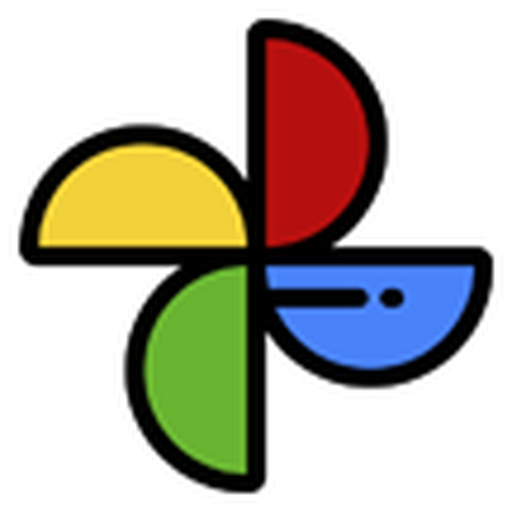
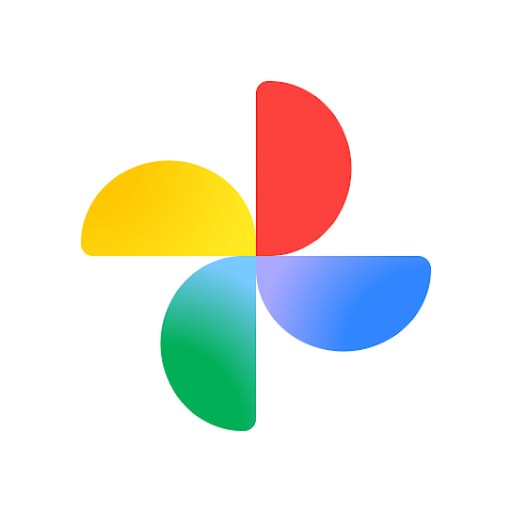
🔍 替换 Google 全家桶 6 个图标（Maps/Photos/Translate/Voice/YouTube/YouTubeMusic），清理 GoogleVoice01，同步计数（362/247）

diff --git a/README.md b/README.md
@@ -17,7 +17,7 @@
   <img src="https://img.shields.io/github/stars/Hawaiine/Oasisic-Icons?style=flat-square" alt="Stars">
   <img src="https://img.shields.io/github/last-commit/Hawaiine/Oasisic-Icons?style=flat-square" alt="Last Commit">
   <img src="https://img.shields.io/github/repo-size/Hawaiine/Oasisic-Icons?style=flat-square" alt="Repo Size">
-  <img src="https://img.shields.io/badge/icons-363-blue?style=flat-square" alt="Icons Count">
+  <img src="https://img.shields.io/badge/icons-362-blue?style=flat-square" alt="Icons Count">
   <img src="https://img.shields.io/badge/brands-247-green?style=flat-square" alt="Brands Count">
   <img src="https://img.shields.io/badge/categories-21-orange?style=flat-square" alt="Categories Count">
 </p>
@@ -26,12 +26,12 @@
 
 ## 📖 简介 / Introduction
 
-**Oasisic-Icons** 是一套专为代理工具设计的策略组图标合集：当前共 **363** 个 PNG 图标，覆盖 **247** 个品牌，归入 **21** 个分类。
+**Oasisic-Icons** 是一套专为代理工具设计的策略组图标合集：当前共 **362** 个 PNG 图标，覆盖 **247** 个品牌，归入 **21** 个分类。
 
-本项目为独立图标仓库，**363 个图标全部经过统一规范化处理**（512×512 / RGBA / Apple 风格 squircle 圆角），适配 Surge、Loon、Clash Meta / Mihomo、Stash、Quantumult X、Egern 等主流代理客户端。
+本项目为独立图标仓库，**362 个图标全部经过统一规范化处理**（512×512 / RGBA / Apple 风格 squircle 圆角），适配 Surge、Loon、Clash Meta / Mihomo、Stash、Quantumult X、Egern 等主流代理客户端。
 
 > **画质规范（贡献与替换标准）**：512×512 方形 PNG，RGBA 模式，Apple 风格 squircle 圆角（圆角半径 ≈ 115px / 约 22.4%），保留原始底色。
-> 仓库内全部图标已完成规范化：**363 / 363 均为 512×512 Apple 风格圆角（r≈115px、保留原始底色）**，经 `scripts/optimize-icons.py` 无损重压缩。处理明细与遗留项见 [`docs/references/icon-quality-notes.md`](docs/references/icon-quality-notes.md)。
+> 仓库内全部图标已完成规范化：**362 / 362 均为 512×512 Apple 风格圆角（r≈115px、保留原始底色）**，经 `scripts/optimize-icons.py` 无损重压缩。处理明细与遗留项见 [`docs/references/icon-quality-notes.md`](docs/references/icon-quality-notes.md)。
 
 ---
 
@@ -179,7 +179,7 @@ static=Netflix, HK, TW, JP, SG, img-url=https://raw.githubusercontent.com/Hawaii
 | 💰 Finance | 金融理财 | 0 | 0 |
 | 🎮 Game | 游戏平台 | 7 | 13 |
 | 🔧 General | 通用策略 | 21 | 48 |
-| 🔍 Google | Google 服务 | 11 | 12 |
+| 🔍 Google | Google 服务 | 11 | 11 |
 | 🏥 Health | 健康与运动 | 0 | 0 |
 | 🎬 Media | 影音流媒体 | 70 | 82 |
 | 🪟 Microsoft | 微软服务 | 4 | 11 |
@@ -192,7 +192,7 @@ static=Netflix, HK, TW, JP, SG, img-url=https://raw.githubusercontent.com/Hawaii
 | ⚡ Surge | Surge 应用图标 | 1 | 15 |
 | 📡 Telecom | 运营商 | 4 | 7 |
 | 🔩 Tool | 工具 | 14 | 14 |
-| **合计** | — | **247** | **363** |
+| **合计** | — | **247** | **362** |
 
 `Education` / `Finance` / `Health` 目前为空分类（仅保留目录与 README），便于后续按同一规范补充图标。
 

diff --git a/docs/references/icon-quality-notes.md b/docs/references/icon-quality-notes.md
@@ -2,7 +2,7 @@
 
 > 最后扫描：2026-09-19（圆角半径更新为 r=115 / Apple squircle）
 > 扫描方法：遍历 `icons/**/*.png`，读取 Pillow 报告的尺寸 / 色彩模式，并统计文件体积
-> 扫描范围：363 个 PNG（247 个品牌目录 / 21 个分类，含 3 个预留空分类）
+> 扫描范围：362 个 PNG（247 个品牌目录 / 21 个分类，含 3 个预留空分类）
 
 ---
 
@@ -101,13 +101,13 @@
 
 | 项目 | 结果 |
 |------|------|
-| 尺寸 | **363 / 363 = 512×512**（已全量统一） |
+| 尺寸 | **362 / 362 = 512×512**（已全量统一） |
 | 圆角 | 统一 r=115px（≈22.4%，Apple squircle），四角透明（`alpha=0`） |
 | 用户手动更新的图标 | 71 个已合规文件**像素未改动**（规范化脚本自动跳过） |
 | 规范化处理 | 354 个文件由 `scripts/normalize-icons.py` 从原始尺寸（144×144 / 108×108 / 非方形）转换 |
 | 窄条字标 | 4 个（CatchPlay-Plus / HOY / TVer / VideoMarket）由 `scripts/normalize-strips.py` 处理：裁到内容后以白色圆角底块承载（保留原始字标颜色，不抠背景） |
 | 体积 | 合计 ≈ 27.7 MB；平均 64KB / 中位 58KB / 最大 292KB（`icons/Telecom/ChinaBroadnet/ChinaBroadnet.png`） |
-| 模式分布 | RGBA 363（其余色型 0） |
+| 模式分布 | RGBA 362（其余色型 0） |
 
 ## 7. 需要留意
 

diff --git a/icons/Google/README.md b/icons/Google/README.md
@@ -1,6 +1,6 @@
 # 🔎 Google / Google 服务
 
-> 共 **12** 个图标，**11** 个品牌
+> 共 **11** 个图标，**11** 个品牌
 
 | 品牌 | 图标文件 |
 |:---|:---|
@@ -12,6 +12,6 @@
 | `GooglePhotos` | `GooglePhotos.png ` |
 | `GooglePlay` | `GooglePlay.png ` |
 | `GoogleTranslate` | `GoogleTranslate.png ` |
-| `GoogleVoice` | `GoogleVoice.png GoogleVoice01.png ` |
+| `GoogleVoice` | `GoogleVoice.png ` |
 | `YouTube` | `YouTube.png ` |
 | `YouTubeMusic` | `YouTubeMusic.png ` |
